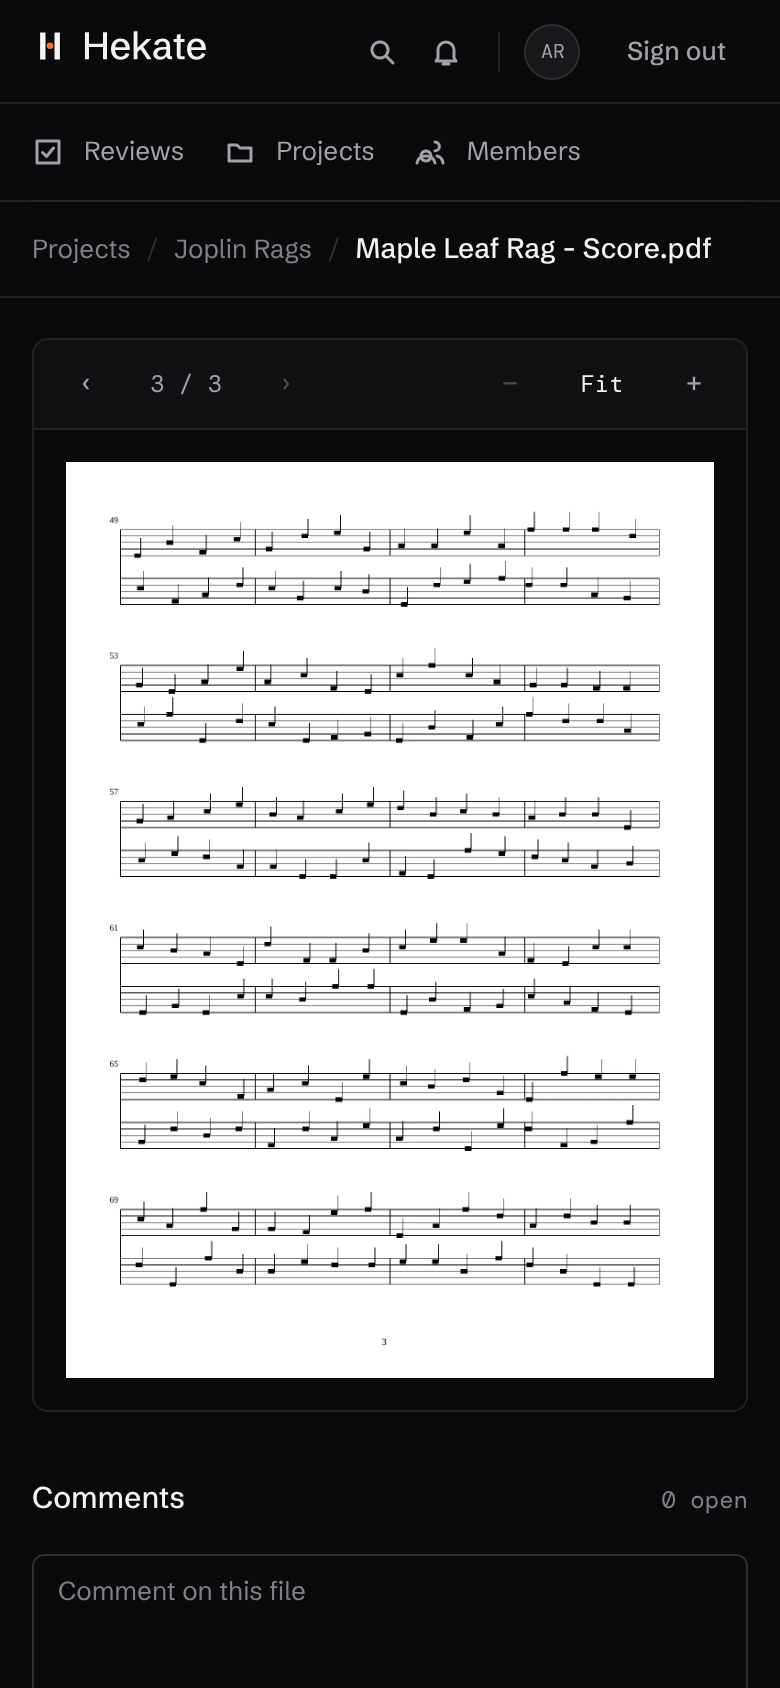
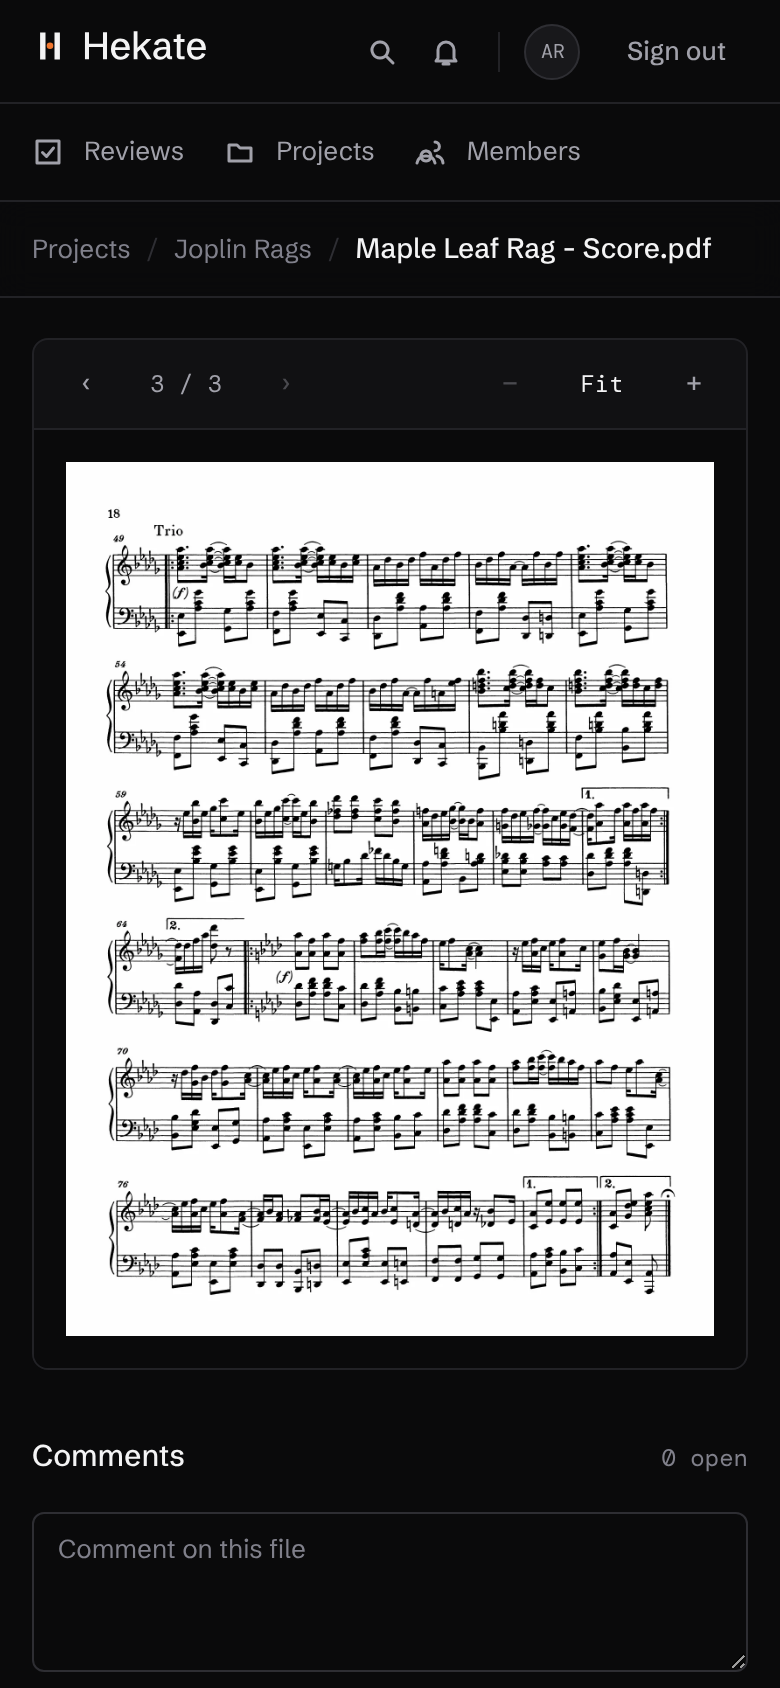
fix(server): write WebP pages to files so browsers can decode them
On a pipe ffmpeg cannot fill in the RIFF size, and browsers refuse larger
WebP images without it; a real engraved score showed it. Pages and
watermarked pages are now written to the workspace, and the tests check
that every page says its own length. Screenshots now use a real score.

Claude-Session: https://claude.ai/code/session_01NFVnDKxWxdqH1wjHhzokRU

diff --git a/apps/server/src/app.test.ts b/apps/server/src/app.test.ts
@@ -2,7 +2,7 @@ import { spawnSync } from "node:child_process";
 import { createDecipheriv } from "node:crypto";
 import { mkdtempSync, readFileSync, rmSync, writeFileSync } from "node:fs";
 import { tmpdir } from "node:os";
-import { join } from "node:path";
+import { dirname, join } from "node:path";
 import { buffer } from "node:stream/consumers";
 import { createDb, runMigrations, schema, withAuditPurge } from "@hekate/db";
 import {
@@ -24,6 +24,7 @@ import { loadConfig } from "./config.ts";
 import { createKeyring } from "./keyring.ts";
 import { memoryMailer } from "./mail.ts";
 import { probe, run } from "./media/ffmpeg.ts";
+import { webpComplete } from "./media/pages.ts";
 import {
   analysisHandler,
   checksumHandler,
@@ -2462,17 +2463,13 @@ describe.runIf(url)("api", () => {
           async () => {
             const s = await invited();
             // The review's file, drawn as one white page.
-            const chunks: Buffer[] = [];
-            await run(
-              "ffmpeg",
-              [
-                ...["-hide_banner", "-nostdin", "-v", "error", "-f", "lavfi"],
-                ...["-i", "color=white:s=400x560", "-frames:v", "1"],
-                ...["-c:v", "libwebp", "-f", "webp", "pipe:1"],
-              ],
-              { onStdout: (chunk) => chunks.push(chunk) },
-            );
-            const white = Buffer.concat(chunks);
+            const drawn = join(mkdtempSync(join(tmpdir(), "hekate-page-")), "white.webp");
+            await run("ffmpeg", [
+              ...["-hide_banner", "-nostdin", "-v", "error", "-f", "lavfi"],
+              ...["-i", "color=white:s=400x560", "-frames:v", "1", "-c:v", "libwebp", drawn],
+            ]);
+            const white = readFileSync(drawn);
+            rmSync(dirname(drawn), { recursive: true, force: true });
             const view = await storage.put(s.organisationId, white);
             const thumb = await storage.put(s.organisationId, white);
             await db
@@ -2502,7 +2499,7 @@ describe.runIf(url)("api", () => {
             const theirs = await pagesFor(s.cookie);
             for (const url of [theirs?.url ?? "", theirs?.thumbUrl ?? ""]) {
               const served = Buffer.from(await (await getAs(url, s.cookie)).arrayBuffer());
-              expect(served.subarray(8, 12).toString()).toBe("WEBP");
+              expect(webpComplete(served)).toBe(true);
               // Not the stored page: their mark is on it.
               expect(served.equals(white)).toBe(false);
             }

diff --git a/apps/server/src/media/pages.ts b/apps/server/src/media/pages.ts
@@ -57,9 +57,13 @@ export function pngSize(png: Buffer): { width: number; height: number } {
   return { width: png.readUInt32BE(16), height: png.readUInt32BE(20) };
 }
 
-/** A PNG at most `size` on its longest side, as WebP. */
+/**
+ * A PNG at most `size` on its longest side, as WebP. Written to a file, not a pipe: on a
+ * pipe ffmpeg cannot go back to fill in the RIFF size, and browsers refuse larger images
+ * without it.
+ */
 async function webp(png: string, size: number, signal: AbortSignal): Promise<Buffer> {
-  const chunks: Buffer[] = [];
+  const out = `${png}.${size}.webp`;
   await run(
     "ffmpeg",
     [
@@ -78,14 +82,20 @@ async function webp(png: string, size: number, signal: AbortSignal): Promise<Buf
       "libwebp",
       "-quality",
       "82",
-      "-f",
-      "webp",
-      "pipe:1",
+      "-y",
+      `file:${out}`,
     ],
-    { signal, timeoutMs: 60_000, onStdout: (chunk) => chunks.push(chunk) },
+    { signal, timeoutMs: 60_000 },
   );
-  return Buffer.concat(chunks);
+  return readFile(out);
 }
+
+/** Whether a WebP says how long it is, as browsers need; ffmpeg leaves 0 on a pipe. */
+export const webpComplete = (image: Buffer) =>
+  image.length >= 12 &&
+  image.toString("latin1", 0, 4) === "RIFF" &&
+  image.toString("latin1", 8, 12) === "WEBP" &&
+  image.readUInt32LE(4) === image.length - 8;
 
 /** How many pages a PDF has, from Poppler's own count. */
 export async function pdfPageCount(path: string, signal: AbortSignal): Promise<number> {

diff --git a/apps/server/src/media/watermark.ts b/apps/server/src/media/watermark.ts
@@ -1,5 +1,5 @@
 import { existsSync } from "node:fs";
-import { writeFile } from "node:fs/promises";
+import { readFile, writeFile } from "node:fs/promises";
 import { join } from "node:path";
 import { run } from "./ffmpeg.ts";
 import { withWorkspace } from "./workspace.ts";
@@ -65,7 +65,8 @@ export async function watermark(
         `drawtext=${face}:textfile='${mark}':expansion=none:fontsize=h/${scale}:line_spacing=6` +
         `:fontcolor=0x808080@0.3:x=w*${t.x}:y=h*${t.y}`,
     );
-    const chunks: Buffer[] = [];
+    // To a file, so that the WebP says how long it is (see `webp` in pages.ts).
+    const output = join(dir, "marked.webp");
     await run(
       "ffmpeg",
       [
@@ -89,12 +90,11 @@ export async function watermark(
         "libwebp",
         "-quality",
         "82",
-        "-f",
-        "webp",
-        "pipe:1",
+        "-y",
+        `file:${output}`,
       ],
-      { signal, timeoutMs: 60_000, onStdout: (chunk) => chunks.push(chunk) },
+      { signal, timeoutMs: 60_000 },
     );
-    return Buffer.concat(chunks);
+    return readFile(output);
   });
 }

diff --git a/apps/server/src/jobs.test.ts b/apps/server/src/jobs.test.ts
@@ -11,6 +11,7 @@ import { afterAll, beforeAll, describe, expect, it } from "vitest";
 import { createJobs, type JobName, jobDefinitions } from "./jobs.ts";
 import { createKeyring } from "./keyring.ts";
 import { run } from "./media/ffmpeg.ts";
+import { webpComplete } from "./media/pages.ts";
 import { samplePdf } from "./media/sample-pdf.ts";
 import { probeHandler, startWorkers } from "./media/workers.ts";
 import { createStorage } from "./storage.ts";
@@ -308,7 +309,7 @@ describe.runIf(url && (hasFfmpeg || process.env.CI))("media jobs", () => {
     // Stored encrypted: only through storage does a page read as WebP.
     const { stream } = await storage.open(organisationId, pages[0]?.blobId ?? "");
     const view = Buffer.concat(await stream.toArray());
-    expect(view.subarray(8, 12).toString()).toBe("WEBP");
+    expect(webpComplete(view)).toBe(true);
 
     const fake = await addFile(Buffer.from("not a pdf"), "document", "Fake.pdf");
     expect(

diff --git a/apps/server/src/media/watermark.test.ts b/apps/server/src/media/watermark.test.ts
@@ -4,6 +4,7 @@ import { tmpdir } from "node:os";
 import { join } from "node:path";
 import { afterAll, describe, expect, it } from "vitest";
 import { run } from "./ffmpeg.ts";
+import { webpComplete } from "./pages.ts";
 import { watermark, watermarkText } from "./watermark.ts";
 
 const hasFfmpeg = spawnSync("ffmpeg", ["-version"]).status === 0;
@@ -54,7 +55,7 @@ describe("watermarks", () => {
       );
       for (const size of ["view", "thumb"] as const) {
         const marked = await watermark(white, text, size);
-        expect(marked.subarray(8, 12).toString()).toBe("WEBP");
+        expect(webpComplete(marked)).toBe(true);
         expect(await ink(marked)).toBeGreaterThan((await ink(white)) + 10_000);
       }
     },

diff --git a/apps/server/src/media/pages.test.ts b/apps/server/src/media/pages.test.ts
@@ -11,6 +11,7 @@ import {
   renderPages,
   THUMB_SIZE,
   VIEW_SIZE,
+  webpComplete,
 } from "./pages.ts";
 import { samplePdf } from "./sample-pdf.ts";
 
@@ -52,7 +53,9 @@ describe.runIf(hasTools || process.env.CI)("drawing pages", () => {
     expect(pages[0]?.height).toBe(VIEW_SIZE);
     expect(pages[0]?.width).toBeCloseTo((VIEW_SIZE * 595) / 842, -1);
     for (const p of pages) {
-      expect(p.view.subarray(8, 12).toString()).toBe("WEBP");
+      // Complete, as browsers need: the RIFF header says how long the image is.
+      expect(webpComplete(p.view)).toBe(true);
+      expect(webpComplete(p.thumb)).toBe(true);
       expect(p.thumb.length).toBeLessThan(p.view.length);
     }
   });
